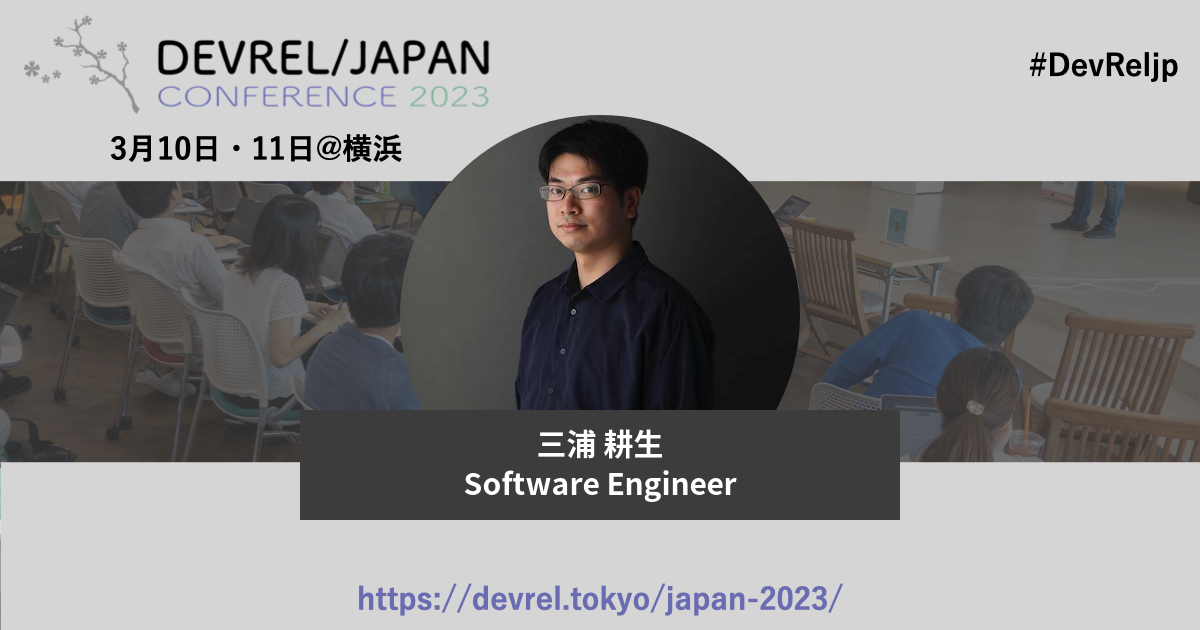
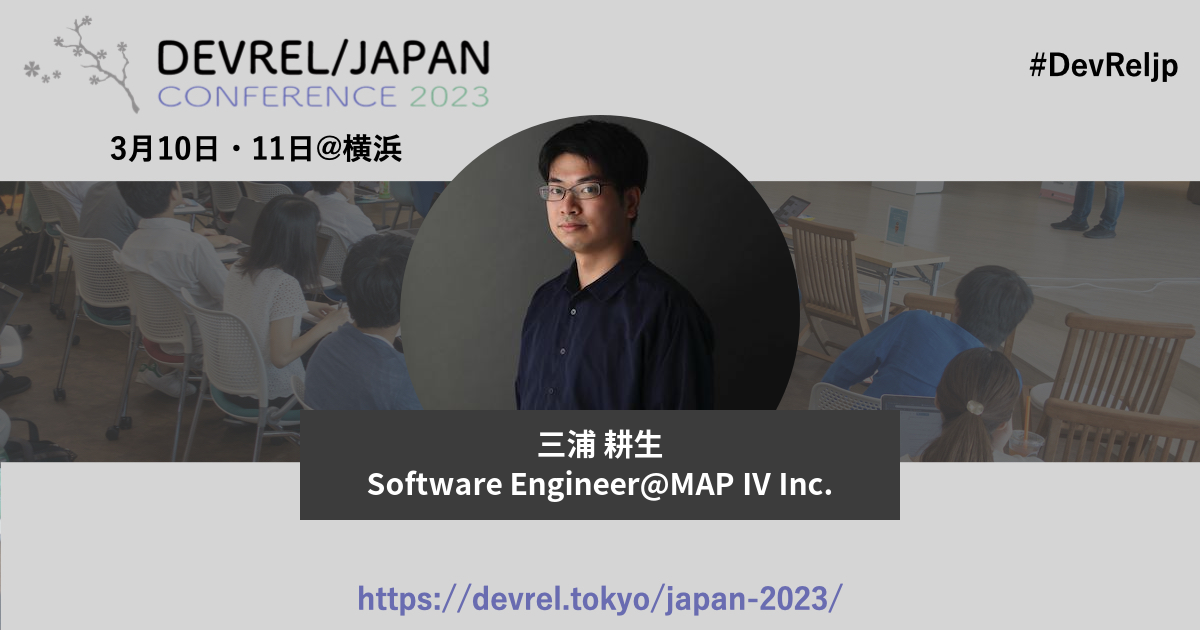
auto update

Changed region(s): [[0.3083, 0.754, 0.7092, 0.8143]]

diff --git a/organizers/koki.md b/organizers/koki.md
@@ -1,7 +1,7 @@
 ---
 layout: person
 permalink: /organizers/koki/
-title: 三浦 耕生@
+title: 三浦 耕生@MAP Ⅳ Inc.
 ogp: /japan-2023/image/ogp/koki.jpg
 type: organizer
 id: koki
